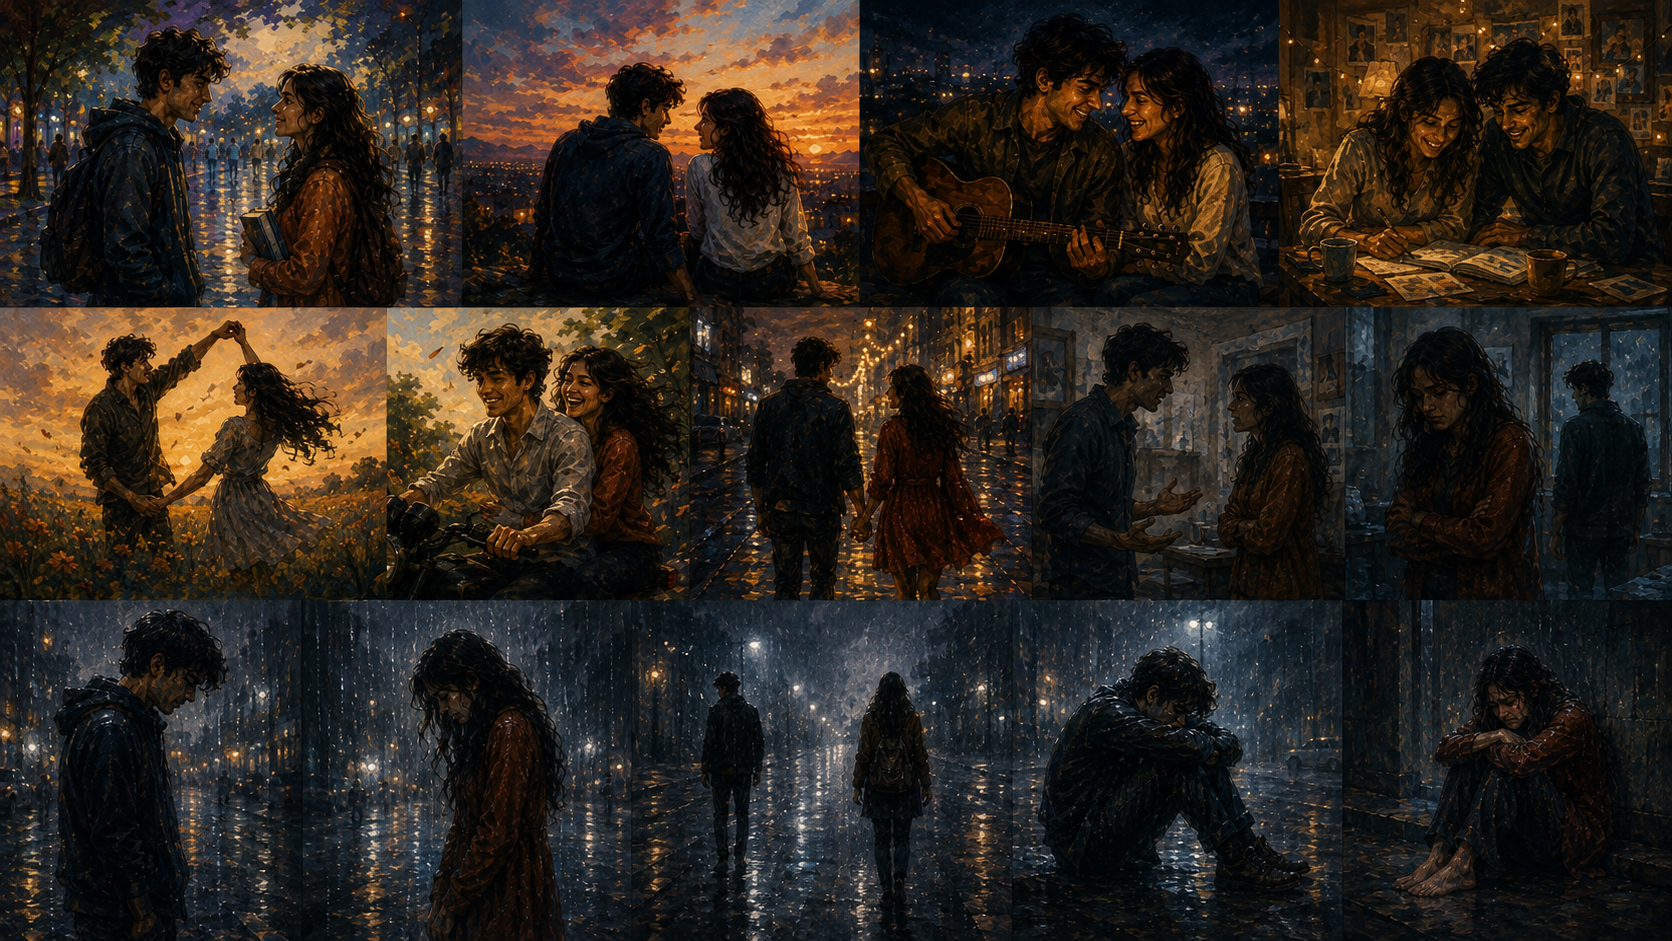
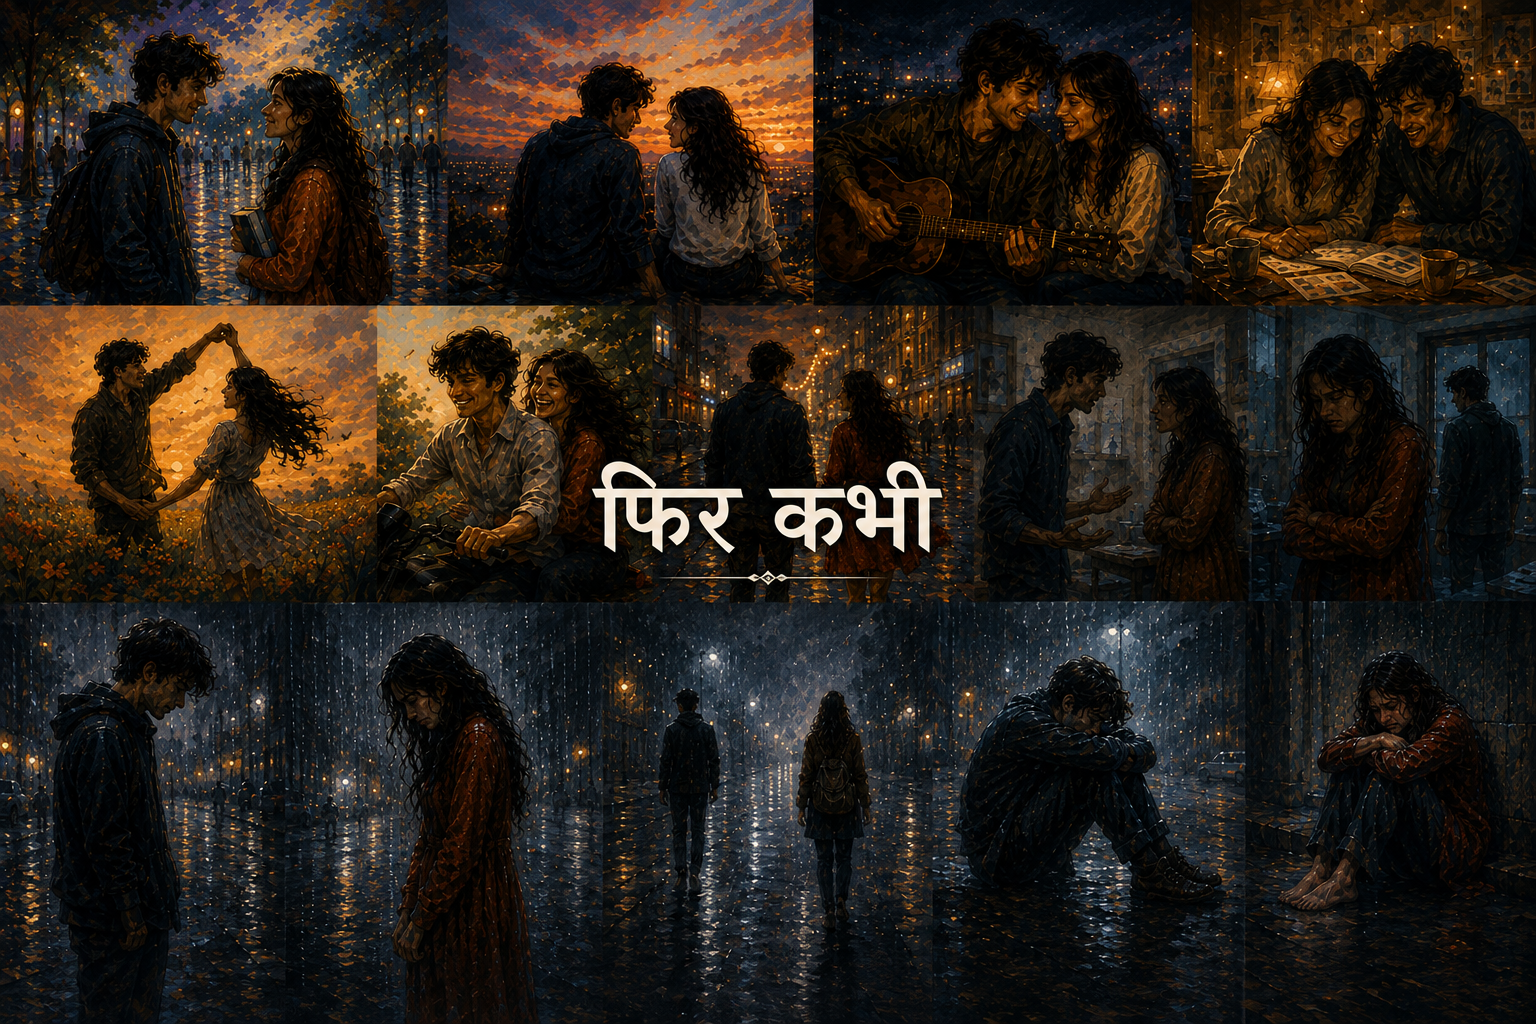
BG image updated and all errors fixed.

diff --git a/src/hooks/useYouTubePlayer.ts b/src/hooks/useYouTubePlayer.ts
@@ -43,7 +43,7 @@ export function useYouTubePlayer(containerId: string) {
 
   const stopTick = useCallback(() => {
     if (tickRef.current !== null) {
-      clearInterval(tickRef.current);
+      cancelAnimationFrame(tickRef.current);
       tickRef.current = null;
     }
   }, []);
@@ -59,9 +59,9 @@ export function useYouTubePlayer(containerId: string) {
           duration: player.getDuration() || prev.duration,
         }));
       }
+      tickRef.current = requestAnimationFrame(tick);
     };
-    tick();
-    tickRef.current = window.setInterval(tick, 500);
+    tickRef.current = requestAnimationFrame(tick);
   }, [stopTick]);
 
   const loadPlaylistMeta = useCallback(async (videoIds: string[]) => {
@@ -100,8 +100,8 @@ export function useYouTubePlayer(containerId: string) {
 
         await new Promise<void>((resolve, reject) => {
           playerRef.current = new window.YT.Player(containerId, {
-            height: "1",
-            width: "1",
+            height: "0",
+            width: "0",
             playerVars:
               isMix && seedVideoId
                 ? {

diff --git a/src/App.css b/src/App.css
@@ -40,13 +40,11 @@
 }
 
 .yt-player-hidden {
-  position: fixed;
-  top: -9999px;
-  left: -9999px;
-  width: 1px;
-  height: 1px;
+  position: absolute;
+  width: 0;
+  height: 0;
   overflow: hidden;
-  opacity: 0.01;
+  opacity: 0;
   pointer-events: none;
 }
 
